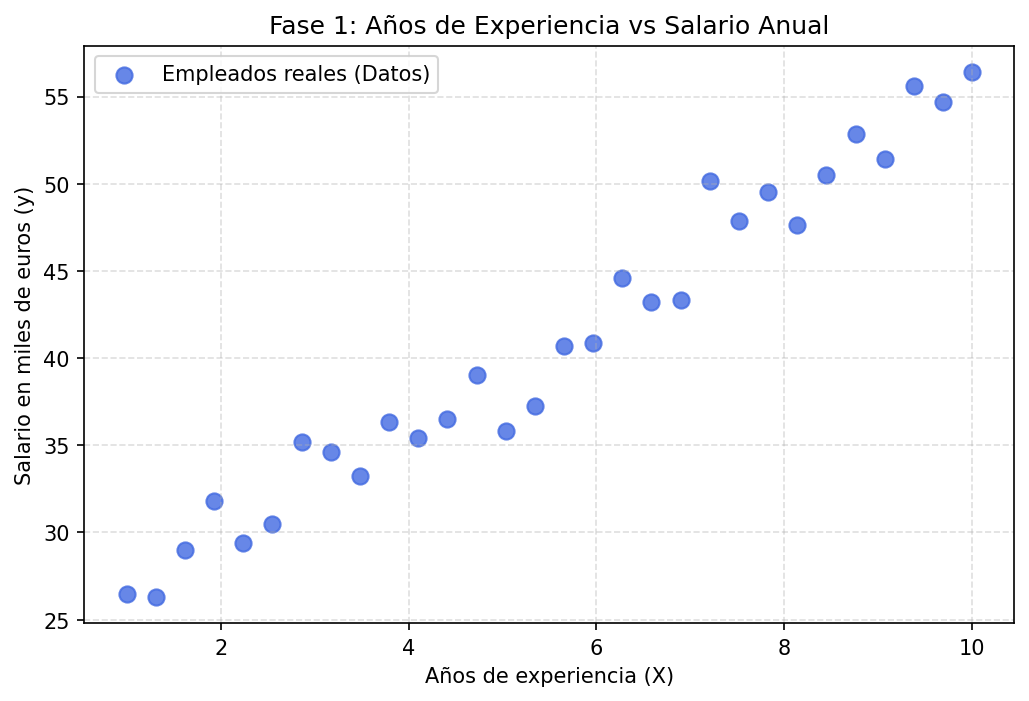
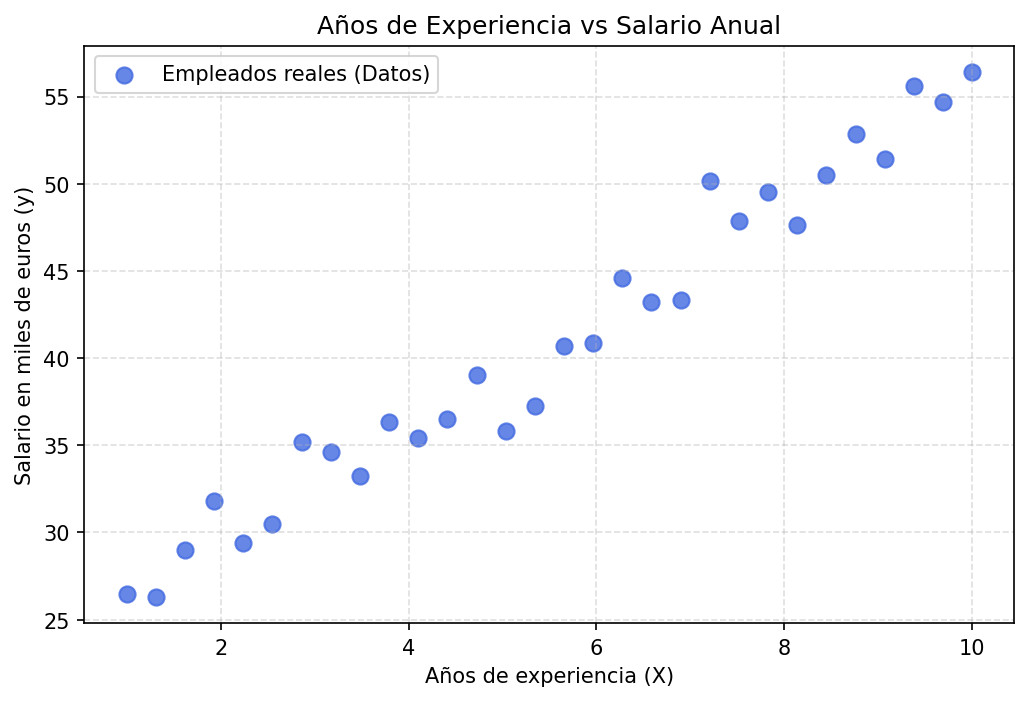
Creamos la linea de regresion lineal en el estado inicial w = 0, b = 0 para despues minimizar el error

Changed region(s): [[0.2488, 0.0, 0.8086, 0.0599]]

diff --git a/03-regresión-lineal/README.md b/03-regresión-lineal/README.md
@@ -13,12 +13,12 @@ Sigue estos pasos dentro de `notebooks/01-regresion-lineal.ipynb`:
 - [x] Generar o cargar nuestro dataset lineal (por ejemplo: **Años de Experiencia ($x$) vs. Salario ($y$)**) y guardarlo en `data/`.
 - [x] Dibujar un gráfico de dispersión (**Scatter Plot**) con `matplotlib` para ver la tendencia lineal de los puntos y guardarlo en `reports/figures/01_scatter_datos.png`.
 
-### Fase 2: Programar la Recta ($\hat{y} = w \cdot x + b$) y el Medidor de Error (MSE)
-- [ ] Programar la función de predicción de la recta:
+### Fase 2: Programar la Recta ($\hat{y} = w \cdot x + b$) y el Medidor de Error (MSE) ✅
+- [x] Programar la función de predicción de la recta:
   $$\hat{y} = w \cdot x + b$$
-- [ ] Programar la función de coste / error cuadrático medio (**MSE - Mean Squared Error**):
+- [x] Programar la función de coste / error cuadrático medio (**MSE - Mean Squared Error**):
   $$\text{MSE} = \frac{1}{N} \sum_{i=1}^{N} (y_i - \hat{y}_i)^2$$
-- [ ] Probar cuánto error da una recta inicial puesta a ciegas (con $w = 0$ y $b = 0$).
+- [x] Probar cuánto error da una recta inicial puesta a ciegas (con $w = 0$ y $b = 0$, dando un error inicial $\text{MSE} = 1750.74$).
 
 ### Fase 3: Programar el Motor de Aprendizaje (Descenso del Gradiente)
 - [ ] Calcular las derivadas (gradientes $dw$ y $db$), que indican hacia dónde debemos girar ($w$) y subir/bajar ($b$) la recta para reducir el error:
